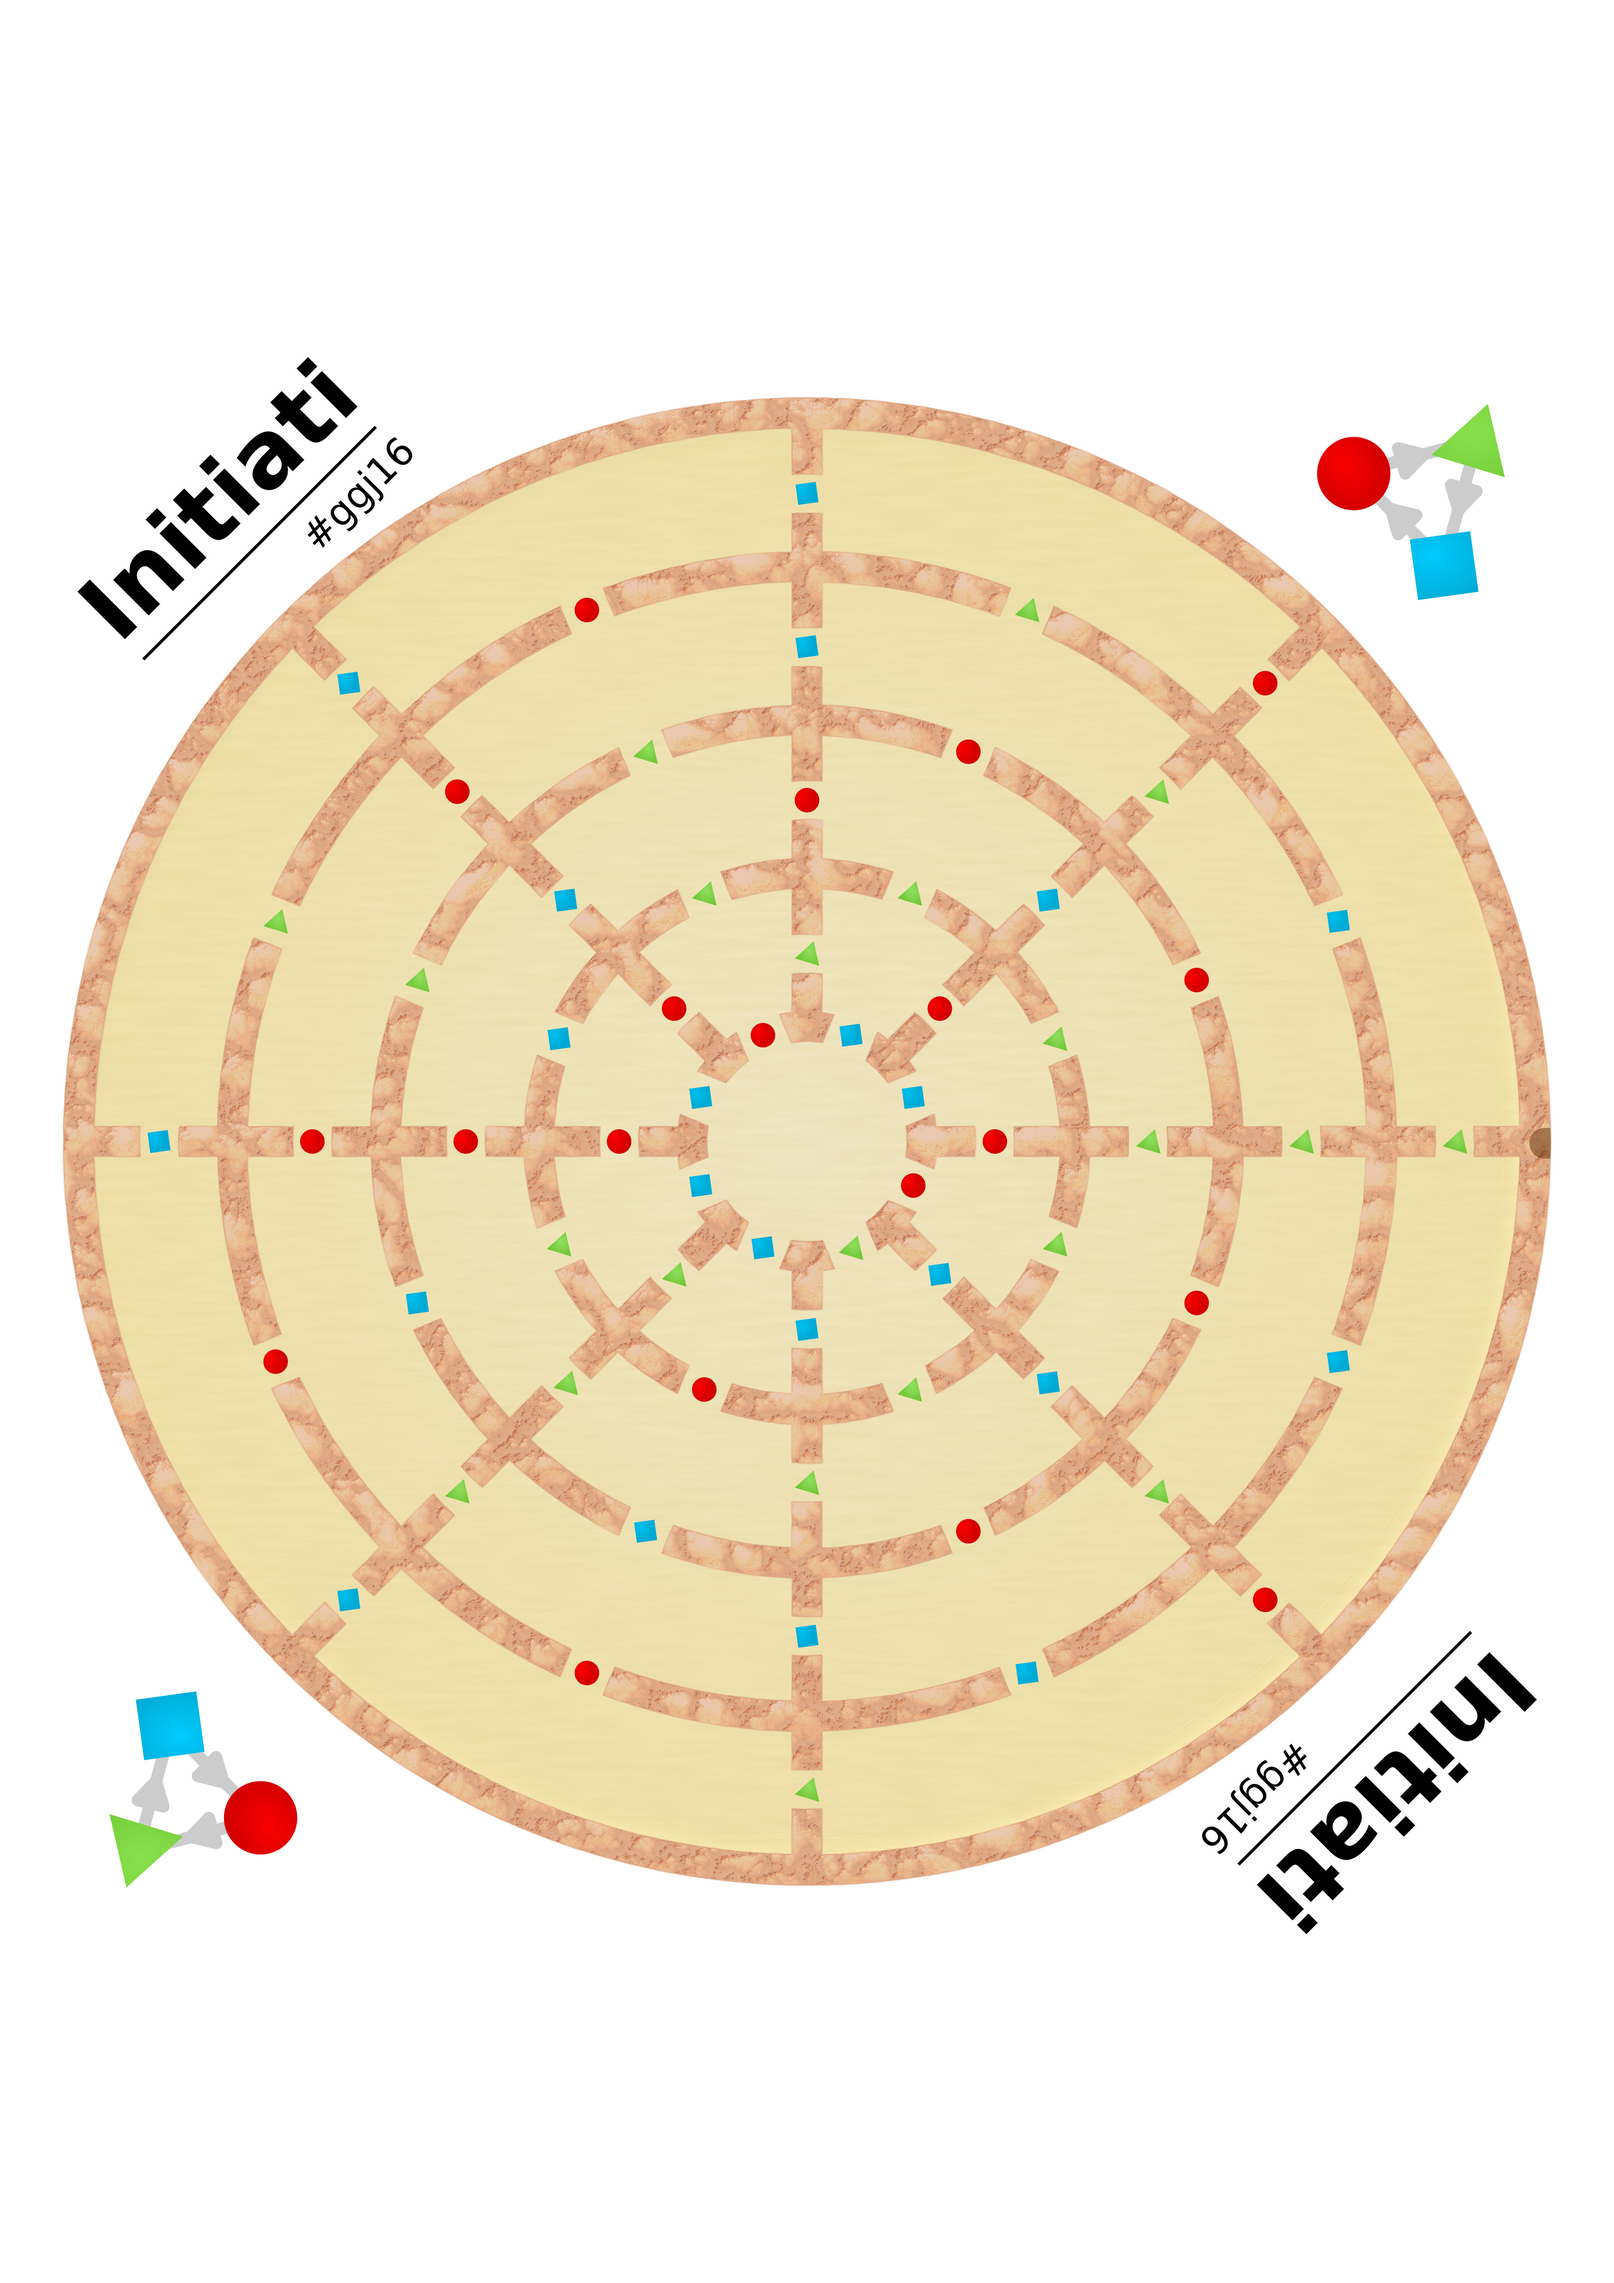
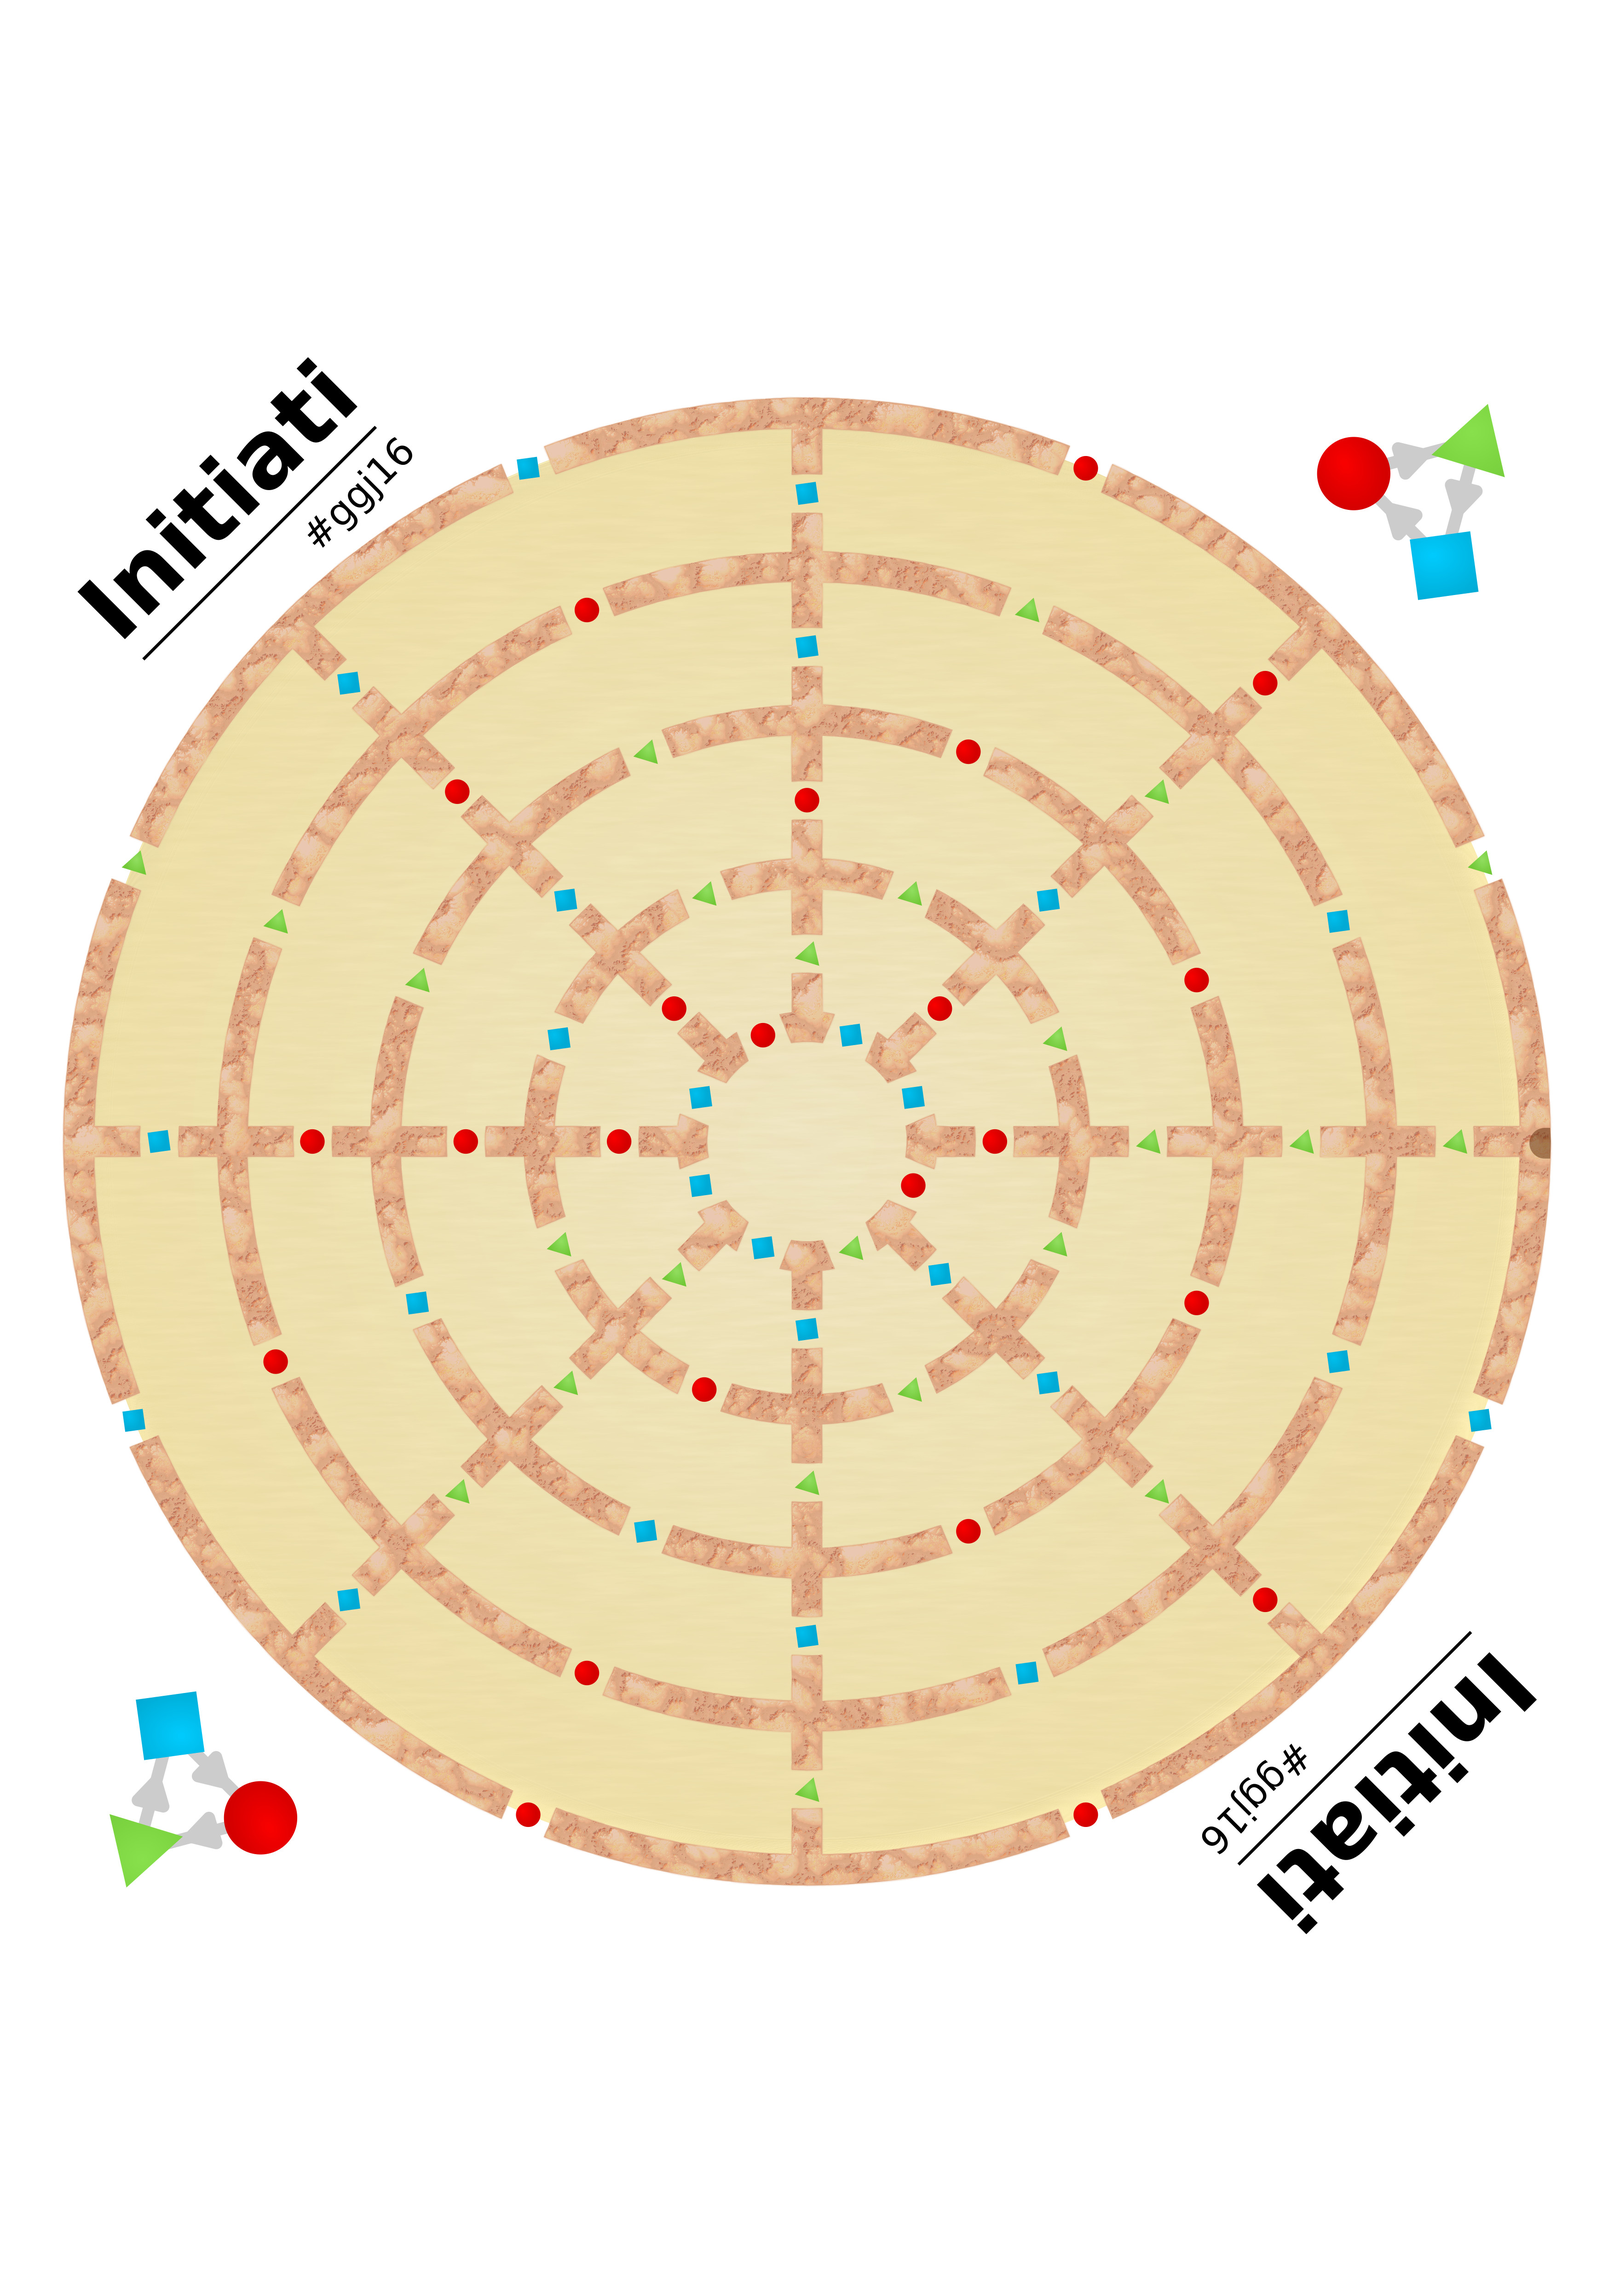
update plateau

diff --git a/plateau/gen-doors.py b/plateau/gen-doors.py
@@ -5,13 +5,14 @@ CG = 'Triangle'
 CB = 'Square'
 
 DOORS = [
-	[CG, CR, CG, CB, CB, CB, CB, CR], # E left and right
+	  [CB, CR, CR, CB, CG, CB, CR, CG], # outter ring
+	[CG, CR, CG, CB, CB, CB, CB, CR],   # E left and right
 	  [CB, CB, CR, CR, CG, CR, CG, CB], # E bottom
-	[CG, CG, CB, CG, CR, CR, CB, CG], # D left and right
+	[CG, CG, CB, CG, CR, CR, CB, CG],   # D left and right
 	  [CR, CR, CB, CB, CG, CG, CR, CR], # D bottom
-	[CG, CB, CG, CG, CR, CB, CR, CB], # C left and right
+	[CG, CB, CG, CG, CR, CB, CR, CB],   # C left and right
 	  [CG, CG, CR, CG, CB, CG, CG, CG], # C bottom
-	[CR, CB, CB, CG, CR, CR, CG, CR], # B left and right
+	[CR, CB, CB, CG, CR, CR, CG, CR],   # B left and right
 	  [CR, CG, CB, CB, CB, CR, CB, CB], # B bottom
 ]
 
@@ -21,7 +22,7 @@ class Door:
     _id = 0 # Should be static
 
     def factory(idAngle, idRadius):
-        klass = DOORS[7-(idRadius)][idAngle]
+        klass = DOORS[8-(idRadius)][idAngle]
         if(klass=='Circle'):
             return Circle(idAngle, idRadius)
         elif(klass=='Square'):
@@ -93,6 +94,6 @@ class Triangle(Door):
         self._tagId = "triangle"
 
 for i in range (0,8):
-    for beta in range (0,8):
+    for beta in range (0,9):
         d = Door.factory(i, beta)
         print(d.getSvgPart())
